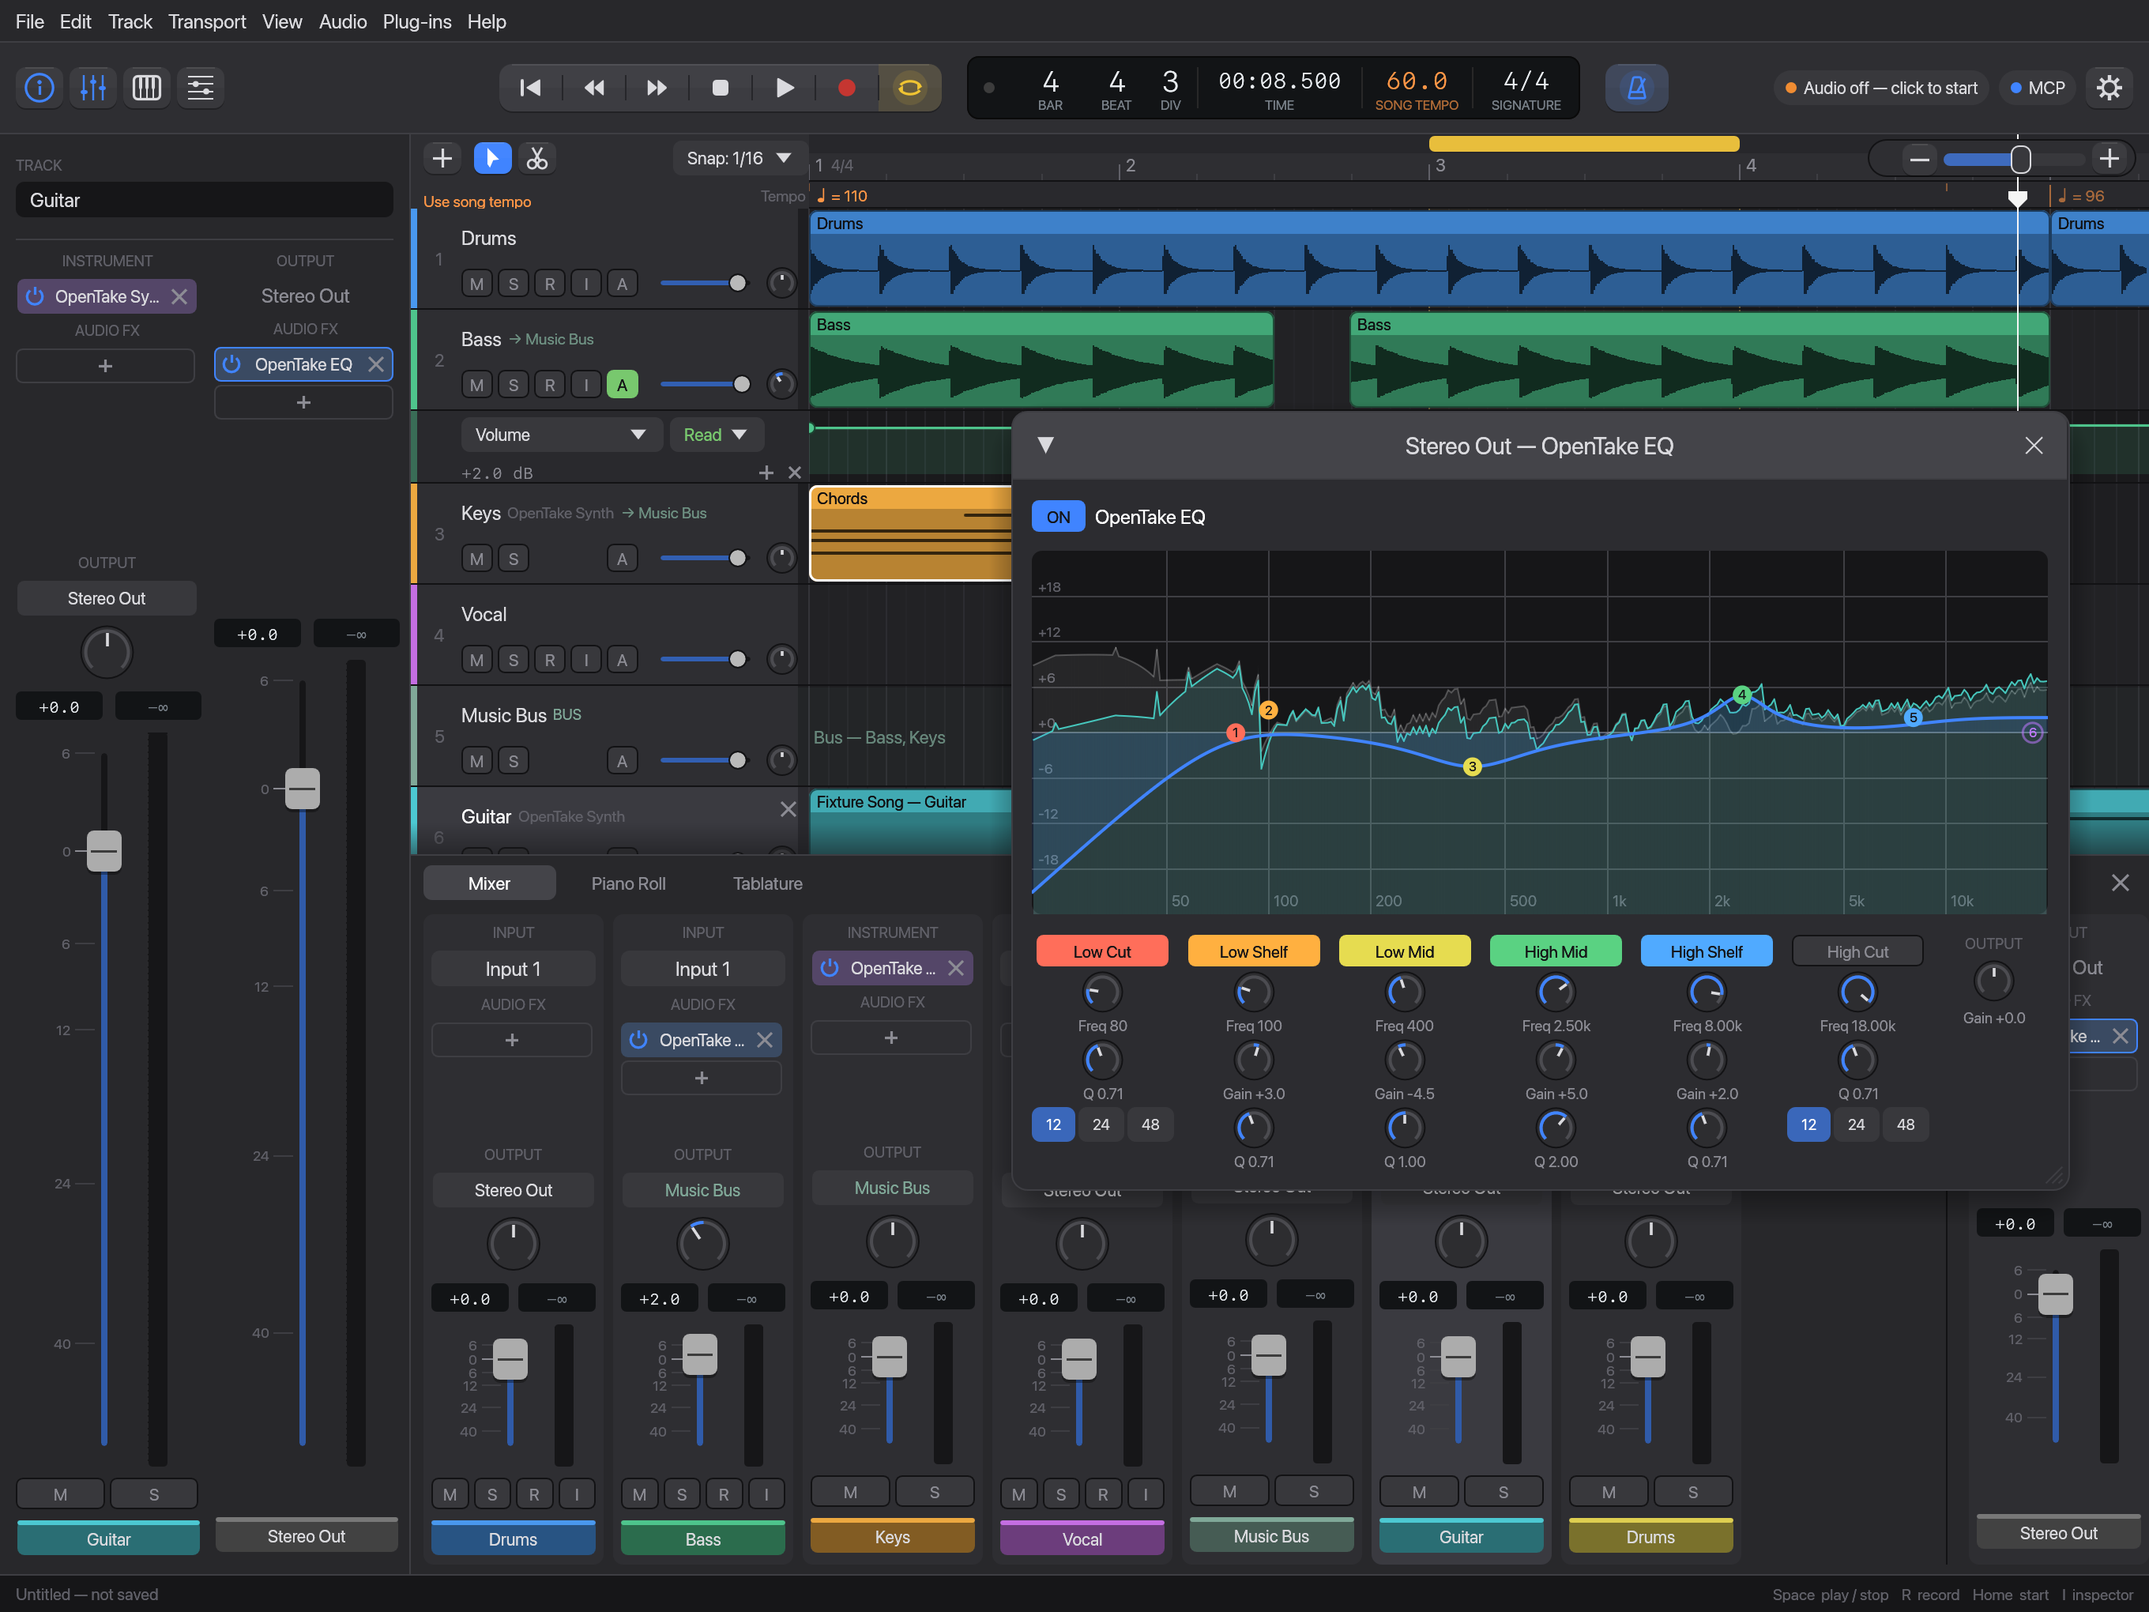
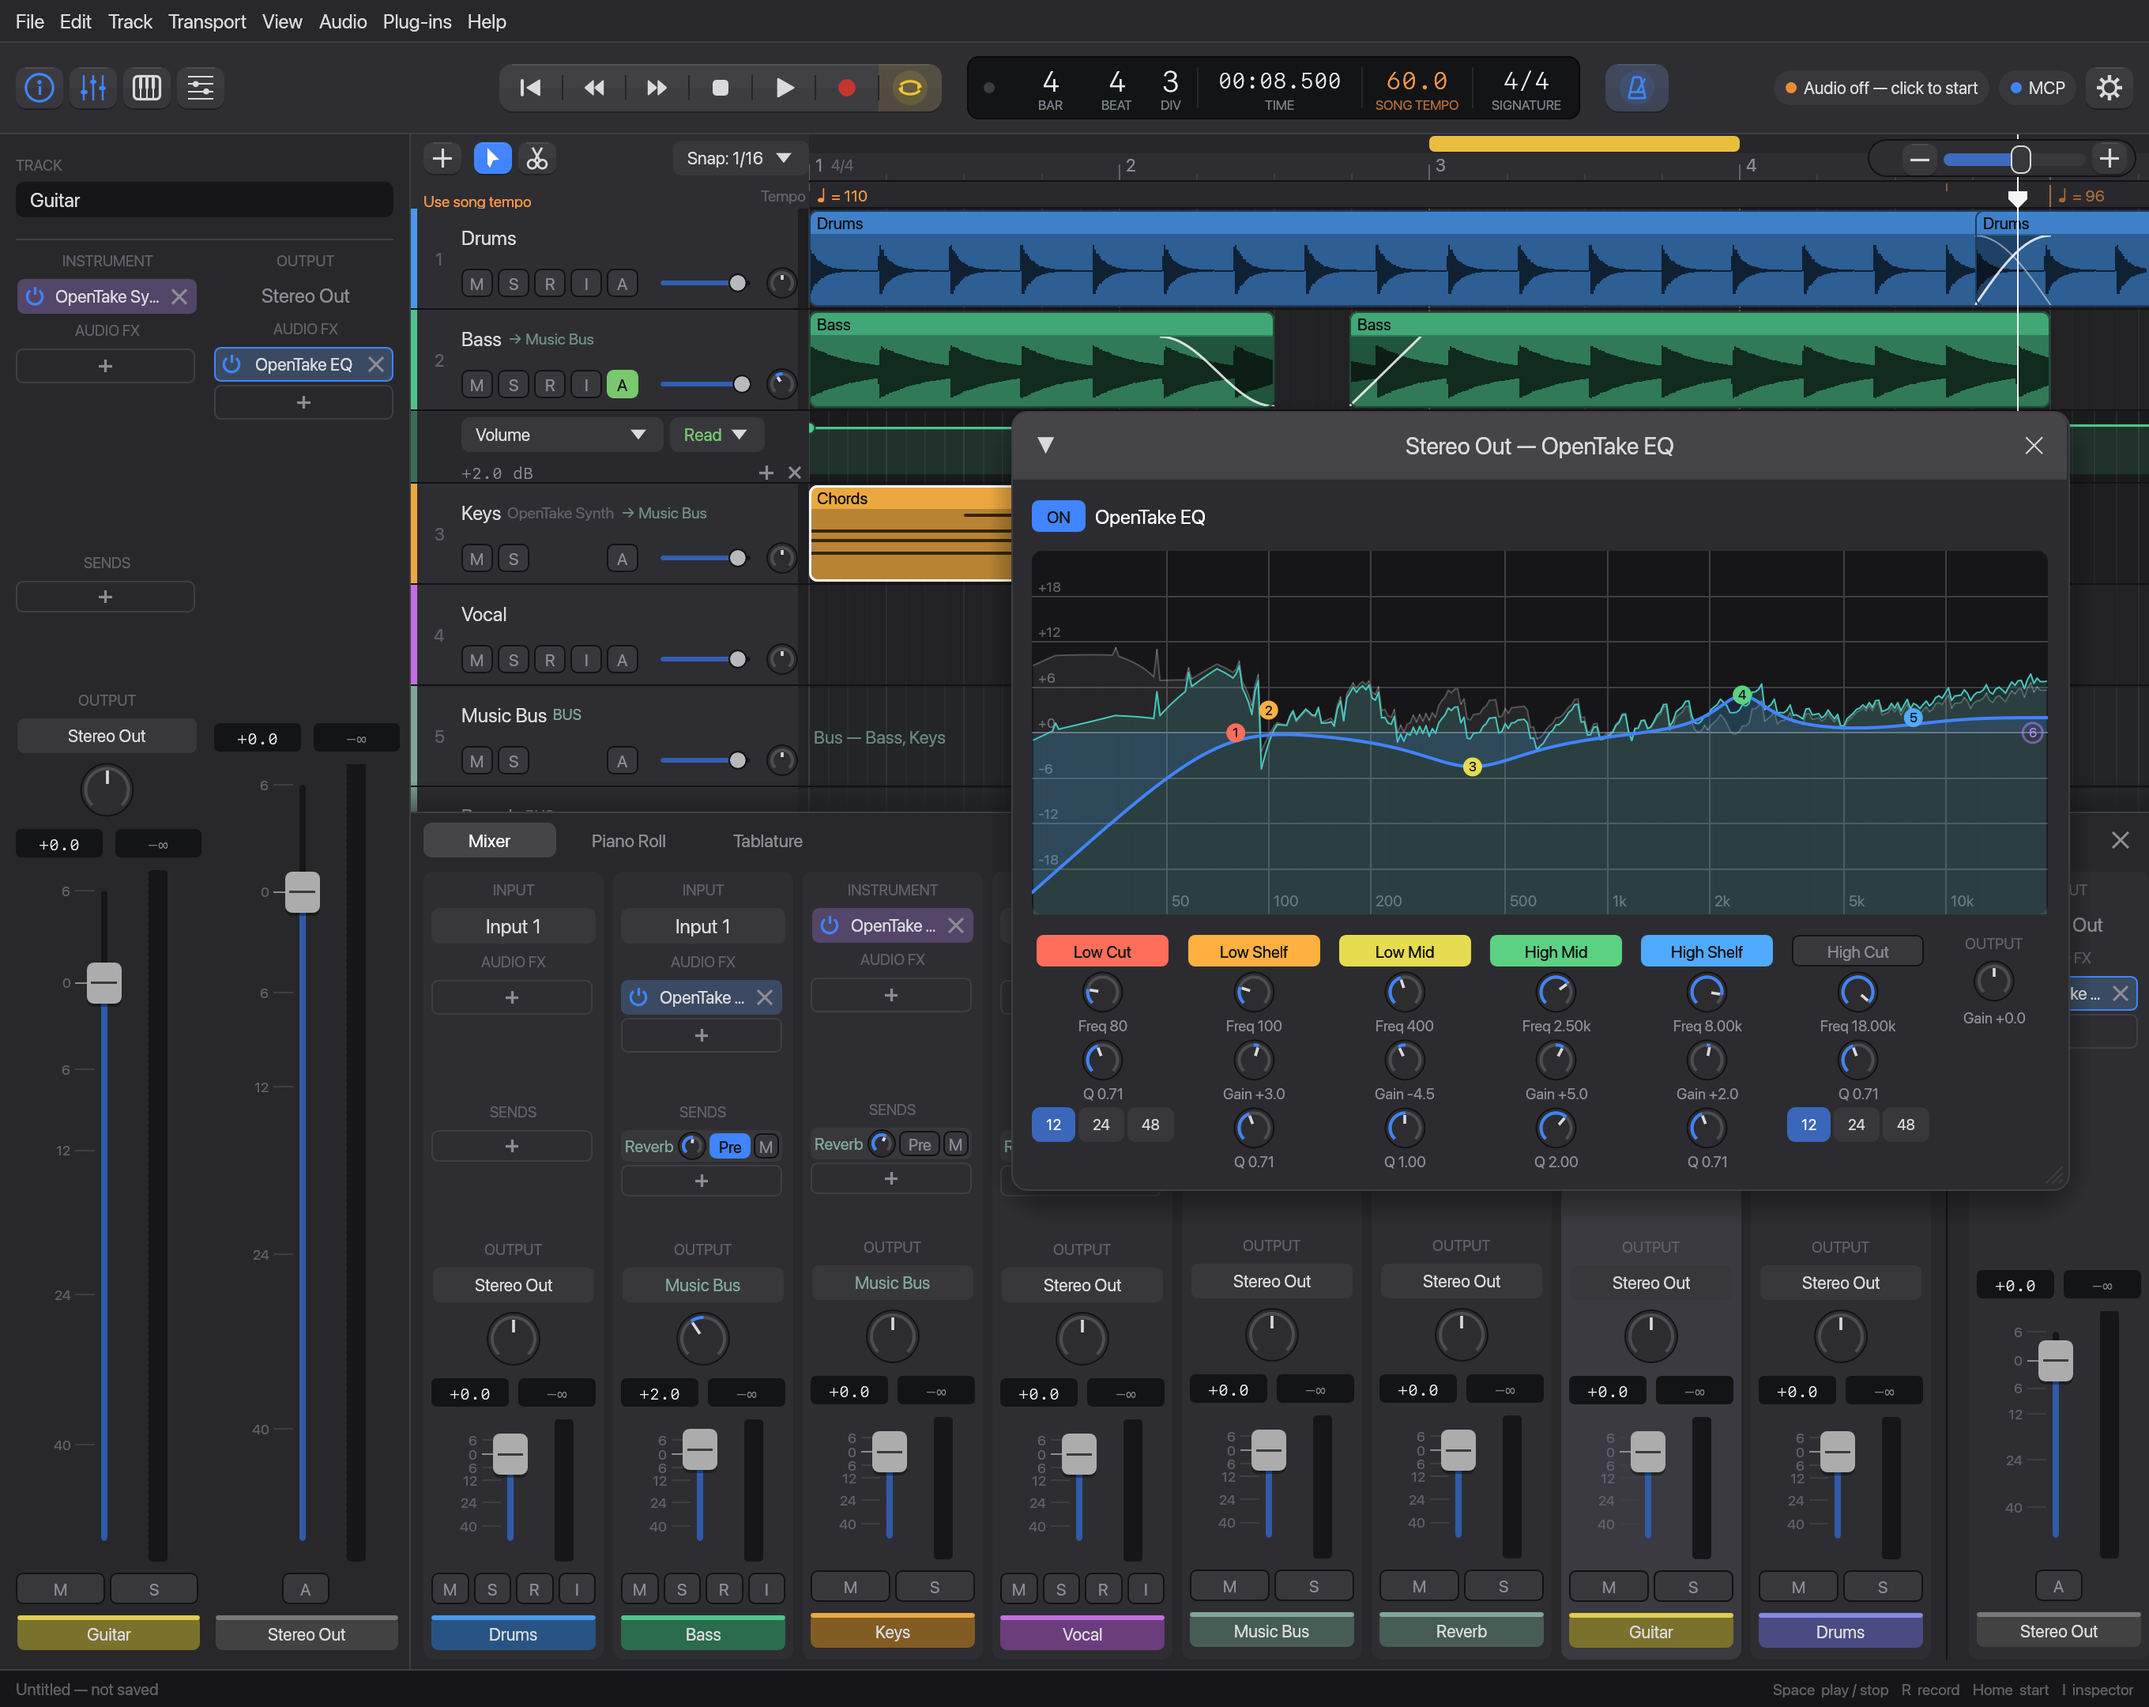
Tablature: larger fret numbers; engraved note heads
- Fret numbers are sized from the string spacing (about the gap's
  height, as in printed tab), so they're readable at the normal size;
  a number shrinks only when a neighbouring note on its string is too
  close, so fast runs shrink evenly.
- Note heads are drawn as engraved shapes: filled heads are ovals
  tilted up to the right; half notes have a narrower, steeper hole so
  the outline is thick on two sides and thin between; whole notes are
  upright with a steeply tilted hole. Open heads are rings, so staff
  lines show through.
- README screenshots re-rendered (fades, crossfade, sends, reverb bus).

diff --git a/crates/opentake/src/gui/tab_view.rs b/crates/opentake/src/gui/tab_view.rs
@@ -5,7 +5,7 @@
 
 use opentake_engine::project::{MidiClip, Note, Project, TabBar, TabLayout};
 use eframe::egui;
-use egui::{Align, Align2, Color32, FontId, Layout, Painter, Rangef, Rect, RichText, Sense, Shape, Stroke, StrokeKind, pos2, vec2};
+use egui::{Align, Align2, Color32, FontId, Layout, Painter, Pos2, Rangef, Rect, RichText, Sense, Shape, Stroke, StrokeKind, pos2, vec2};
 
 use super::{Action, DawApp, Snapshot, theme, timeline, widgets};
 
@@ -286,7 +286,7 @@ fn draw_tab(ctx: &Ctx, painter: &Painter, clips: &[(&MidiClip, &TabLayout)], rec
     let system_x = gutter.min + SYSTEM_X;
     if let Some((_, layout)) = clips.first() {
         for (s, &open) in layout.tuning.iter().enumerate() {
-            painter.text(pos2(system_x - 6.0, y_of(s)), Align2::RIGHT_CENTER, NOTE_NAMES[(open % 12) as usize], FontId::monospace(11.0 * ctx.scale.sqrt()), ctx.pal.dim);
+            painter.text(pos2(system_x - 6.0, y_of(s)), Align2::RIGHT_CENTER, NOTE_NAMES[(open % 12) as usize], FontId::monospace((spacing * 0.7).max(11.0)), ctx.pal.dim);
         }
     }
     painter.vline(system_x, Rangef::new(y_top, y_bottom), Stroke::new(1.5, ctx.pal.faint));
@@ -305,7 +305,9 @@ fn draw_tab(ctx: &Ctx, painter: &Painter, clips: &[(&MidiClip, &TabLayout)], rec
         p.hline(content.x_range(), y_of(s), Stroke::new(1.0, ctx.pal.line));
     }
 
-    let mono = FontId::monospace(11.5 * ctx.scale);
+    // Fret numbers fill most of the gap between strings (as printed tab does), so they're
+    // readable at the normal size and grow with the spacing rather than separately from it.
+    let mono = FontId::monospace((spacing * 1.05).max(11.5 * ctx.scale));
     for (clip, layout) in clips {
         let (start, end) = (clip.position_secs, clip.position_secs + clip.length_secs);
         let (x0, x1) = (ctx.x(start), ctx.x(end));
@@ -331,8 +333,21 @@ fn draw_tab(ctx: &Ctx, painter: &Painter, clips: &[(&MidiClip, &TabLayout)], rec
             let y = y_of(pos.string as usize);
             let sounding = ctx.sounding(t, note_end);
             let (bg, fg) = if sounding { (ctx.color, Color32::from_rgb(16, 16, 18)) } else { (ctx.pal.bg, ctx.pal.ink) };
-            let galley = p.layout_no_wrap(pos.fret.to_string(), mono.clone(), fg);
-            let box_rect = Rect::from_center_size(pos2(nx + galley.size().x / 2.0 + 1.0, y), galley.size() + vec2(4.0, 1.0));
+            // Shrink a number only when a neighbouring note on its string is too close for it;
+            // both sides count, so a fast run shrinks evenly.
+            let gap = clip
+                .notes
+                .iter()
+                .filter(|m| (m.start_secs - n.start_secs).abs() > 1e-9 && layout.position(m).is_some_and(|q| q.string == pos.string))
+                .map(|m| (ctx.x(start + m.start_secs) - nx).abs())
+                .fold(f32::INFINITY, f32::min);
+            let room = gap - 3.0;
+            let digits = pos.fret.to_string().len() as f32;
+            let font = if room.is_finite() { FontId::monospace(mono.size.min(room / (0.62 * digits)).max(8.0)) } else { mono.clone() };
+            let galley = p.layout_no_wrap(pos.fret.to_string(), font, fg);
+            // The box is a string gap tall (not the font's line height), so the numbers of a
+            // chord on neighbouring strings don't cover each other.
+            let box_rect = Rect::from_center_size(pos2(nx + galley.size().x / 2.0 + 1.0, y), vec2(galley.size().x + 4.0, spacing - 1.0));
             if nx_end > box_rect.right() + 2.0 {
                 p.hline(Rangef::new(box_rect.right(), nx_end), y, Stroke::new(2.0, theme::with_alpha(ctx.color, 70)));
             }
@@ -343,6 +358,49 @@ fn draw_tab(ctx: &Ctx, painter: &Painter, clips: &[(&MidiClip, &TabLayout)], rec
             p.galley(box_rect.center() - galley.size() / 2.0, galley, fg);
         }
     }
+}
+
+/// An engraved note head `h` (half a staff space) tall around `c`. Filled heads are ovals
+/// tilted up to the right; a half note's hole is narrower and tilted more steeply, so its
+/// outline is thick on two opposite sides and thin between; a whole note is upright with a
+/// steeply tilted hole. Open heads are a ring (not a filled shape with a background-coloured
+/// hole), so staff lines still show through.
+fn note_head(p: &Painter, c: Pos2, h: f32, value: Value, ink: Color32) {
+    // (half-axes and tilt in radians; negative tilts rise to the right on screen)
+    let ellipse = |a: f32, b: f32, tilt: f32| move |phi: f32| {
+        // Distance from the centre to the ellipse along direction `phi`.
+        let (s, c) = (phi - tilt).sin_cos();
+        1.0 / ((c / a).powi(2) + (s / b).powi(2)).sqrt()
+    };
+    const N: usize = 48;
+    let at = |phi: f32, r: f32| c + vec2(phi.cos(), phi.sin()) * r;
+    let (outer, inner) = match value {
+        Value::Whole => (ellipse(h * 1.42, h * 0.9, 0.0), Some(ellipse(h * 0.82, h * 0.46, -1.0))),
+        Value::Half => (ellipse(h * 1.33, h * 0.82, -0.38), Some(ellipse(h * 1.02, h * 0.4, -0.62))),
+        _ => (ellipse(h * 1.33, h * 0.82, -0.38), None),
+    };
+    let mut mesh = egui::Mesh::default();
+    match inner {
+        None => {
+            mesh.colored_vertex(c, ink);
+            for k in 0..N {
+                let phi = k as f32 / N as f32 * std::f32::consts::TAU;
+                mesh.colored_vertex(at(phi, outer(phi)), ink);
+                mesh.add_triangle(0, 1 + k as u32, 1 + ((k + 1) % N) as u32);
+            }
+        }
+        Some(inner) => {
+            for k in 0..N {
+                let phi = k as f32 / N as f32 * std::f32::consts::TAU;
+                mesh.colored_vertex(at(phi, outer(phi)), ink);
+                mesh.colored_vertex(at(phi, inner(phi)), ink);
+                let (o, i, o2, i2) = (2 * k as u32, 2 * k as u32 + 1, 2 * ((k + 1) % N) as u32, 2 * ((k + 1) % N) as u32 + 1);
+                mesh.add_triangle(o, i, o2);
+                mesh.add_triangle(i, i2, o2);
+            }
+        }
+    }
+    p.add(Shape::mesh(mesh));
 }
 
 /// Diatonic step (C-1 = 0) and whether the note needs a sharp.
@@ -456,7 +514,6 @@ impl Staff<'_> {
     fn heads(&self, c: &Chord, stem_up: bool) -> f32 {
         let (h, rx) = (self.h, self.rx());
         let cx = c.x + rx + 1.0;
-        let hollow = matches!(c.written.value, Value::Whole | Value::Half);
         let mut prev: Option<(i32, bool)> = None; // (step, shifted)
         for &(step, sharp) in &c.heads {
             let y = self.y(step);
@@ -475,12 +532,7 @@ impl Staff<'_> {
             for s in (self.bottom_step + 10..=step).filter(|s| (s - self.bottom_step) % 2 == 0) {
                 ledger(s);
             }
-            let radius = vec2(rx, h * 0.92);
-            if hollow {
-                self.p.add(Shape::ellipse_stroke(pos2(hx, y), radius - vec2(0.6, 0.6), Stroke::new(1.4, c.ink)));
-            } else {
-                self.p.add(Shape::ellipse_filled(pos2(hx, y), radius, c.ink));
-            }
+            note_head(self.p, pos2(hx, y), h, c.written.value, c.ink);
             if sharp {
                 draw_sharp(self.p, pos2(cx - rx - h * 1.6, y), h, c.ink);
             }

diff --git a/crates/opentake/src/gui/mod.rs b/crates/opentake/src/gui/mod.rs
@@ -3687,7 +3687,7 @@ mod tests {
 
         let app_engine = engine.clone();
         let mut harness = Harness::builder()
-            .with_size([1360.0, 1020.0])
+            .with_size([1360.0, 1080.0])
             .with_pixels_per_point(2.0)
             .with_step_dt(1.0 / 60.0)
             .wgpu()

diff --git a/README.md b/README.md
@@ -97,7 +97,7 @@ elsewhere); set `OPENTAKE_CONFIG_DIR` to keep them somewhere else.
 
 ### GUI
 
-![OpenTake: arrangement with tracks, a take folder, a bus, a volume automation lane, the cycle range and the mixer](assets/screenshots/arrange.png)
+![OpenTake: arrangement with tracks, fades and a crossfade, a take folder, buses and reverb sends, a volume automation lane and the mixer](assets/screenshots/arrange.png)
 
 <p>
   <img src="assets/screenshots/tablature.png" alt="Guitar Pro import shown as notation and tablature under the arrangement" width="32.5%">
